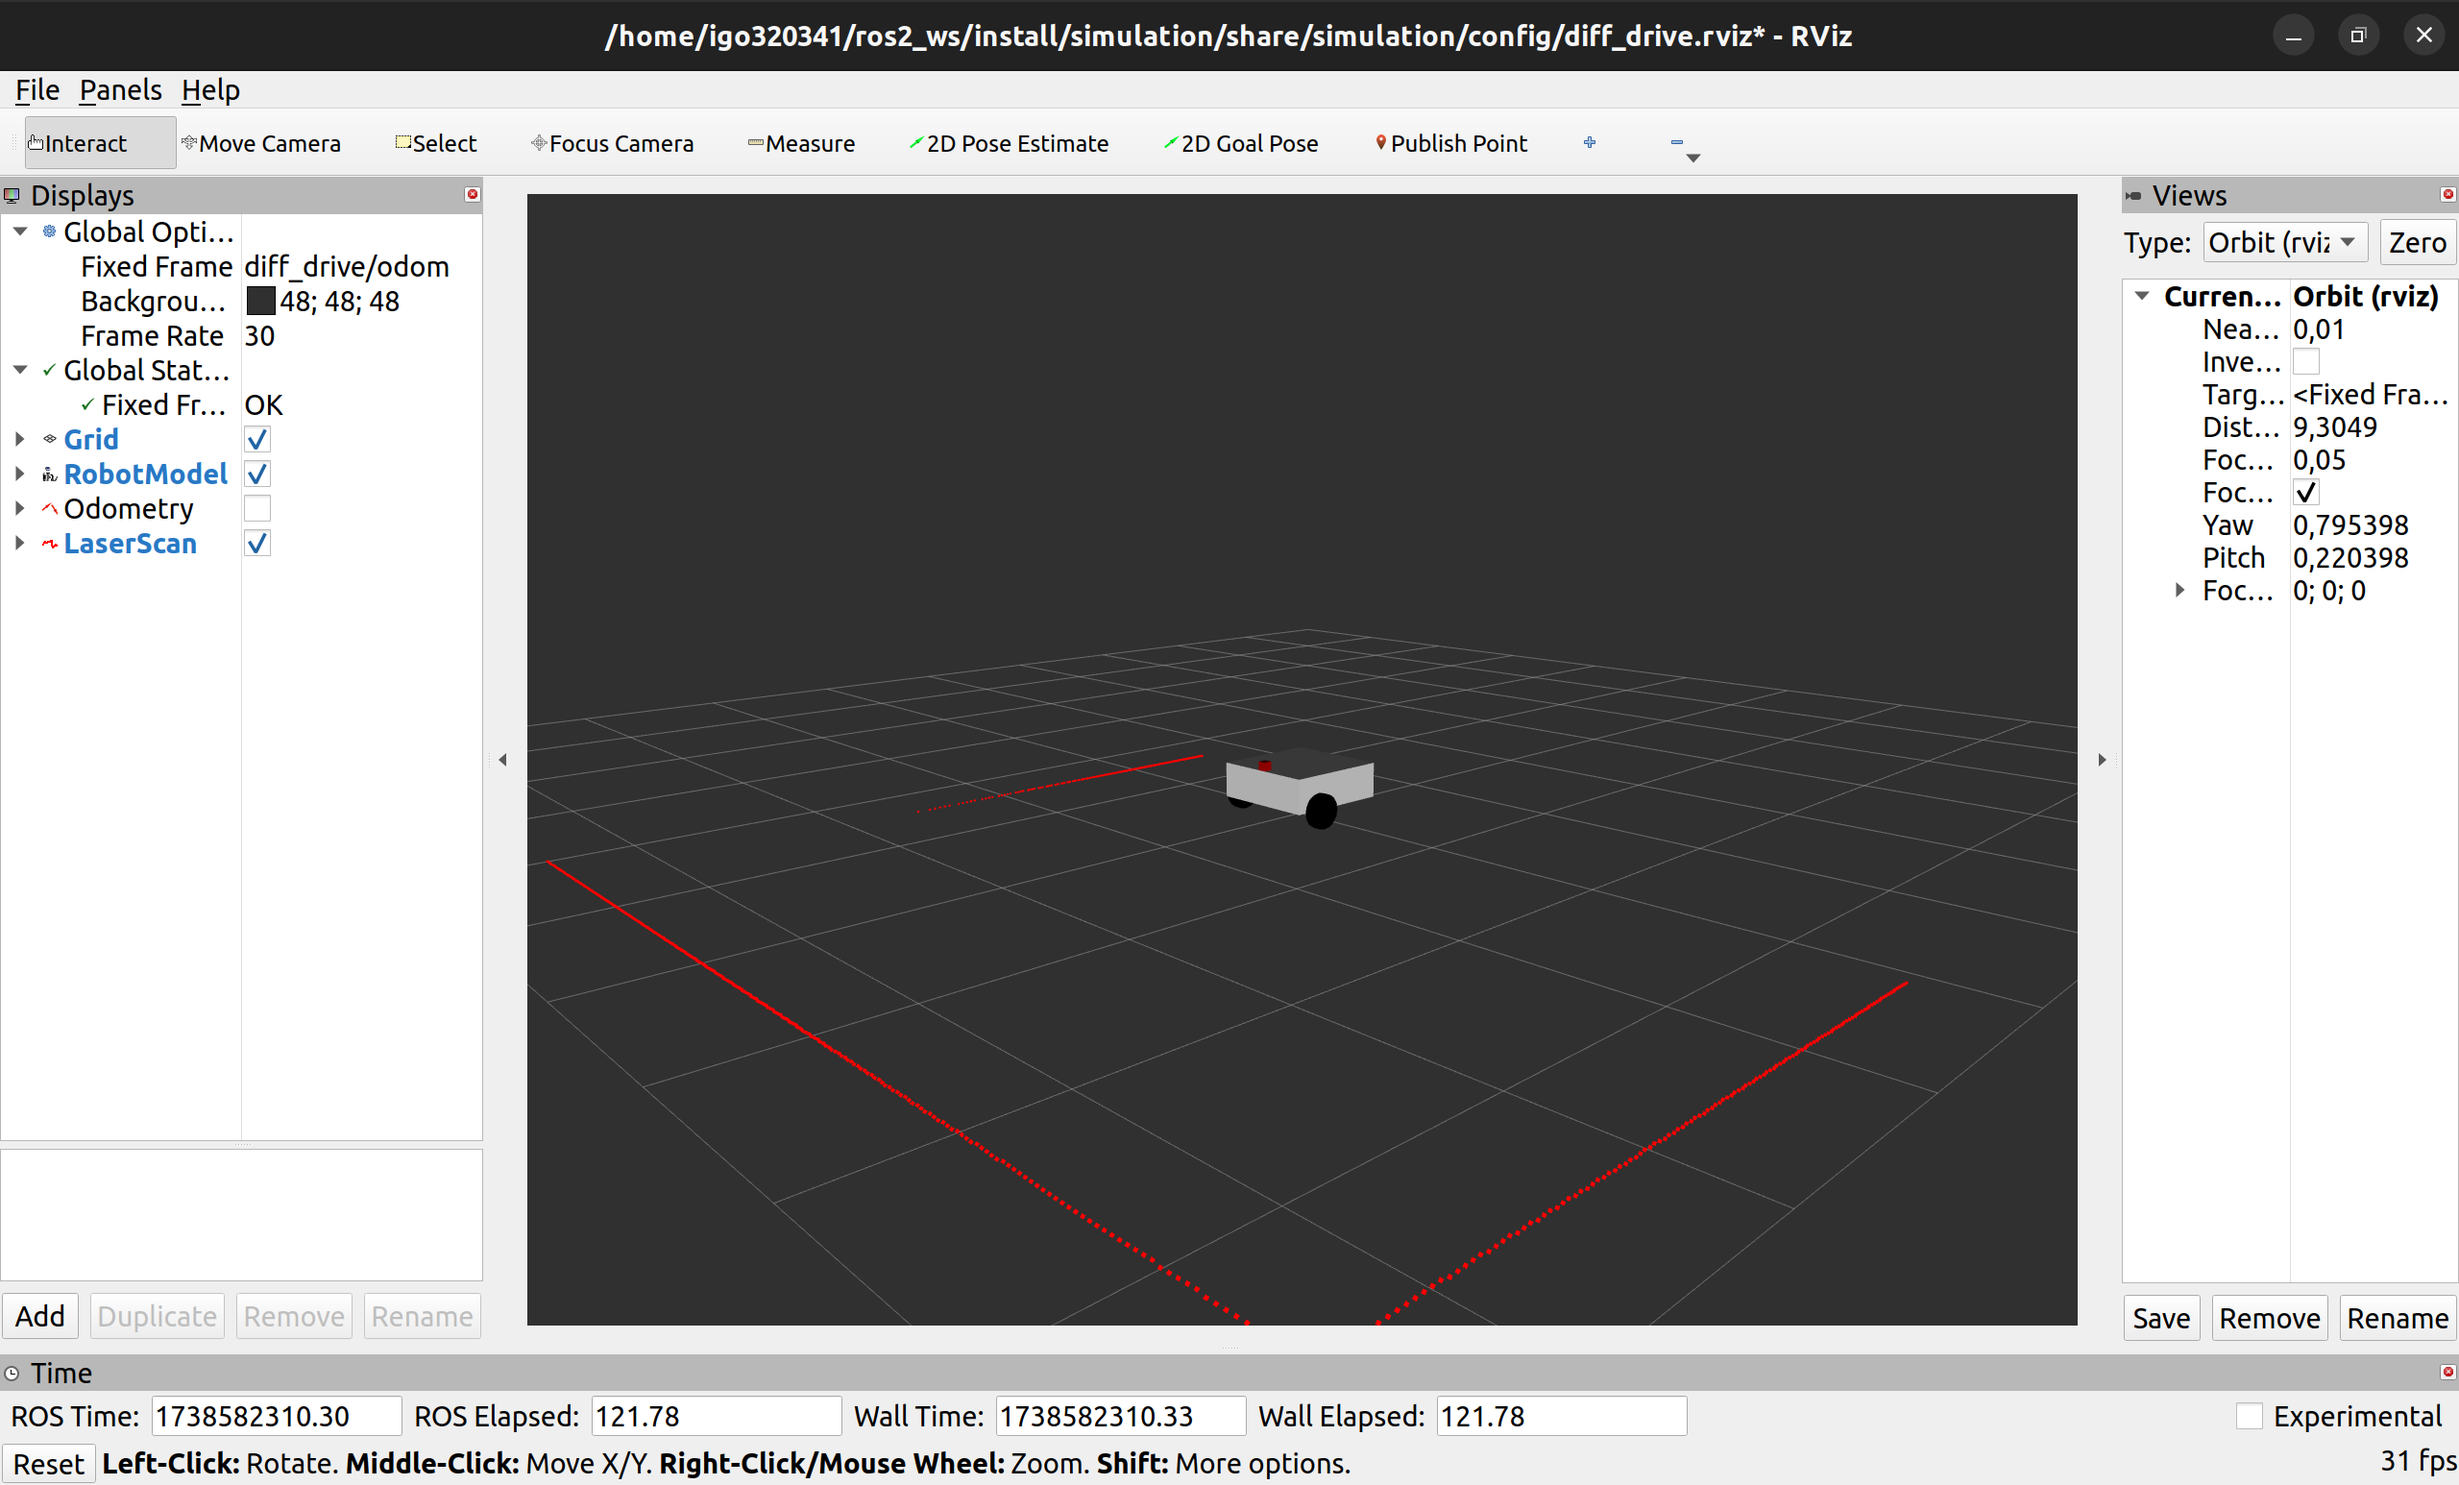
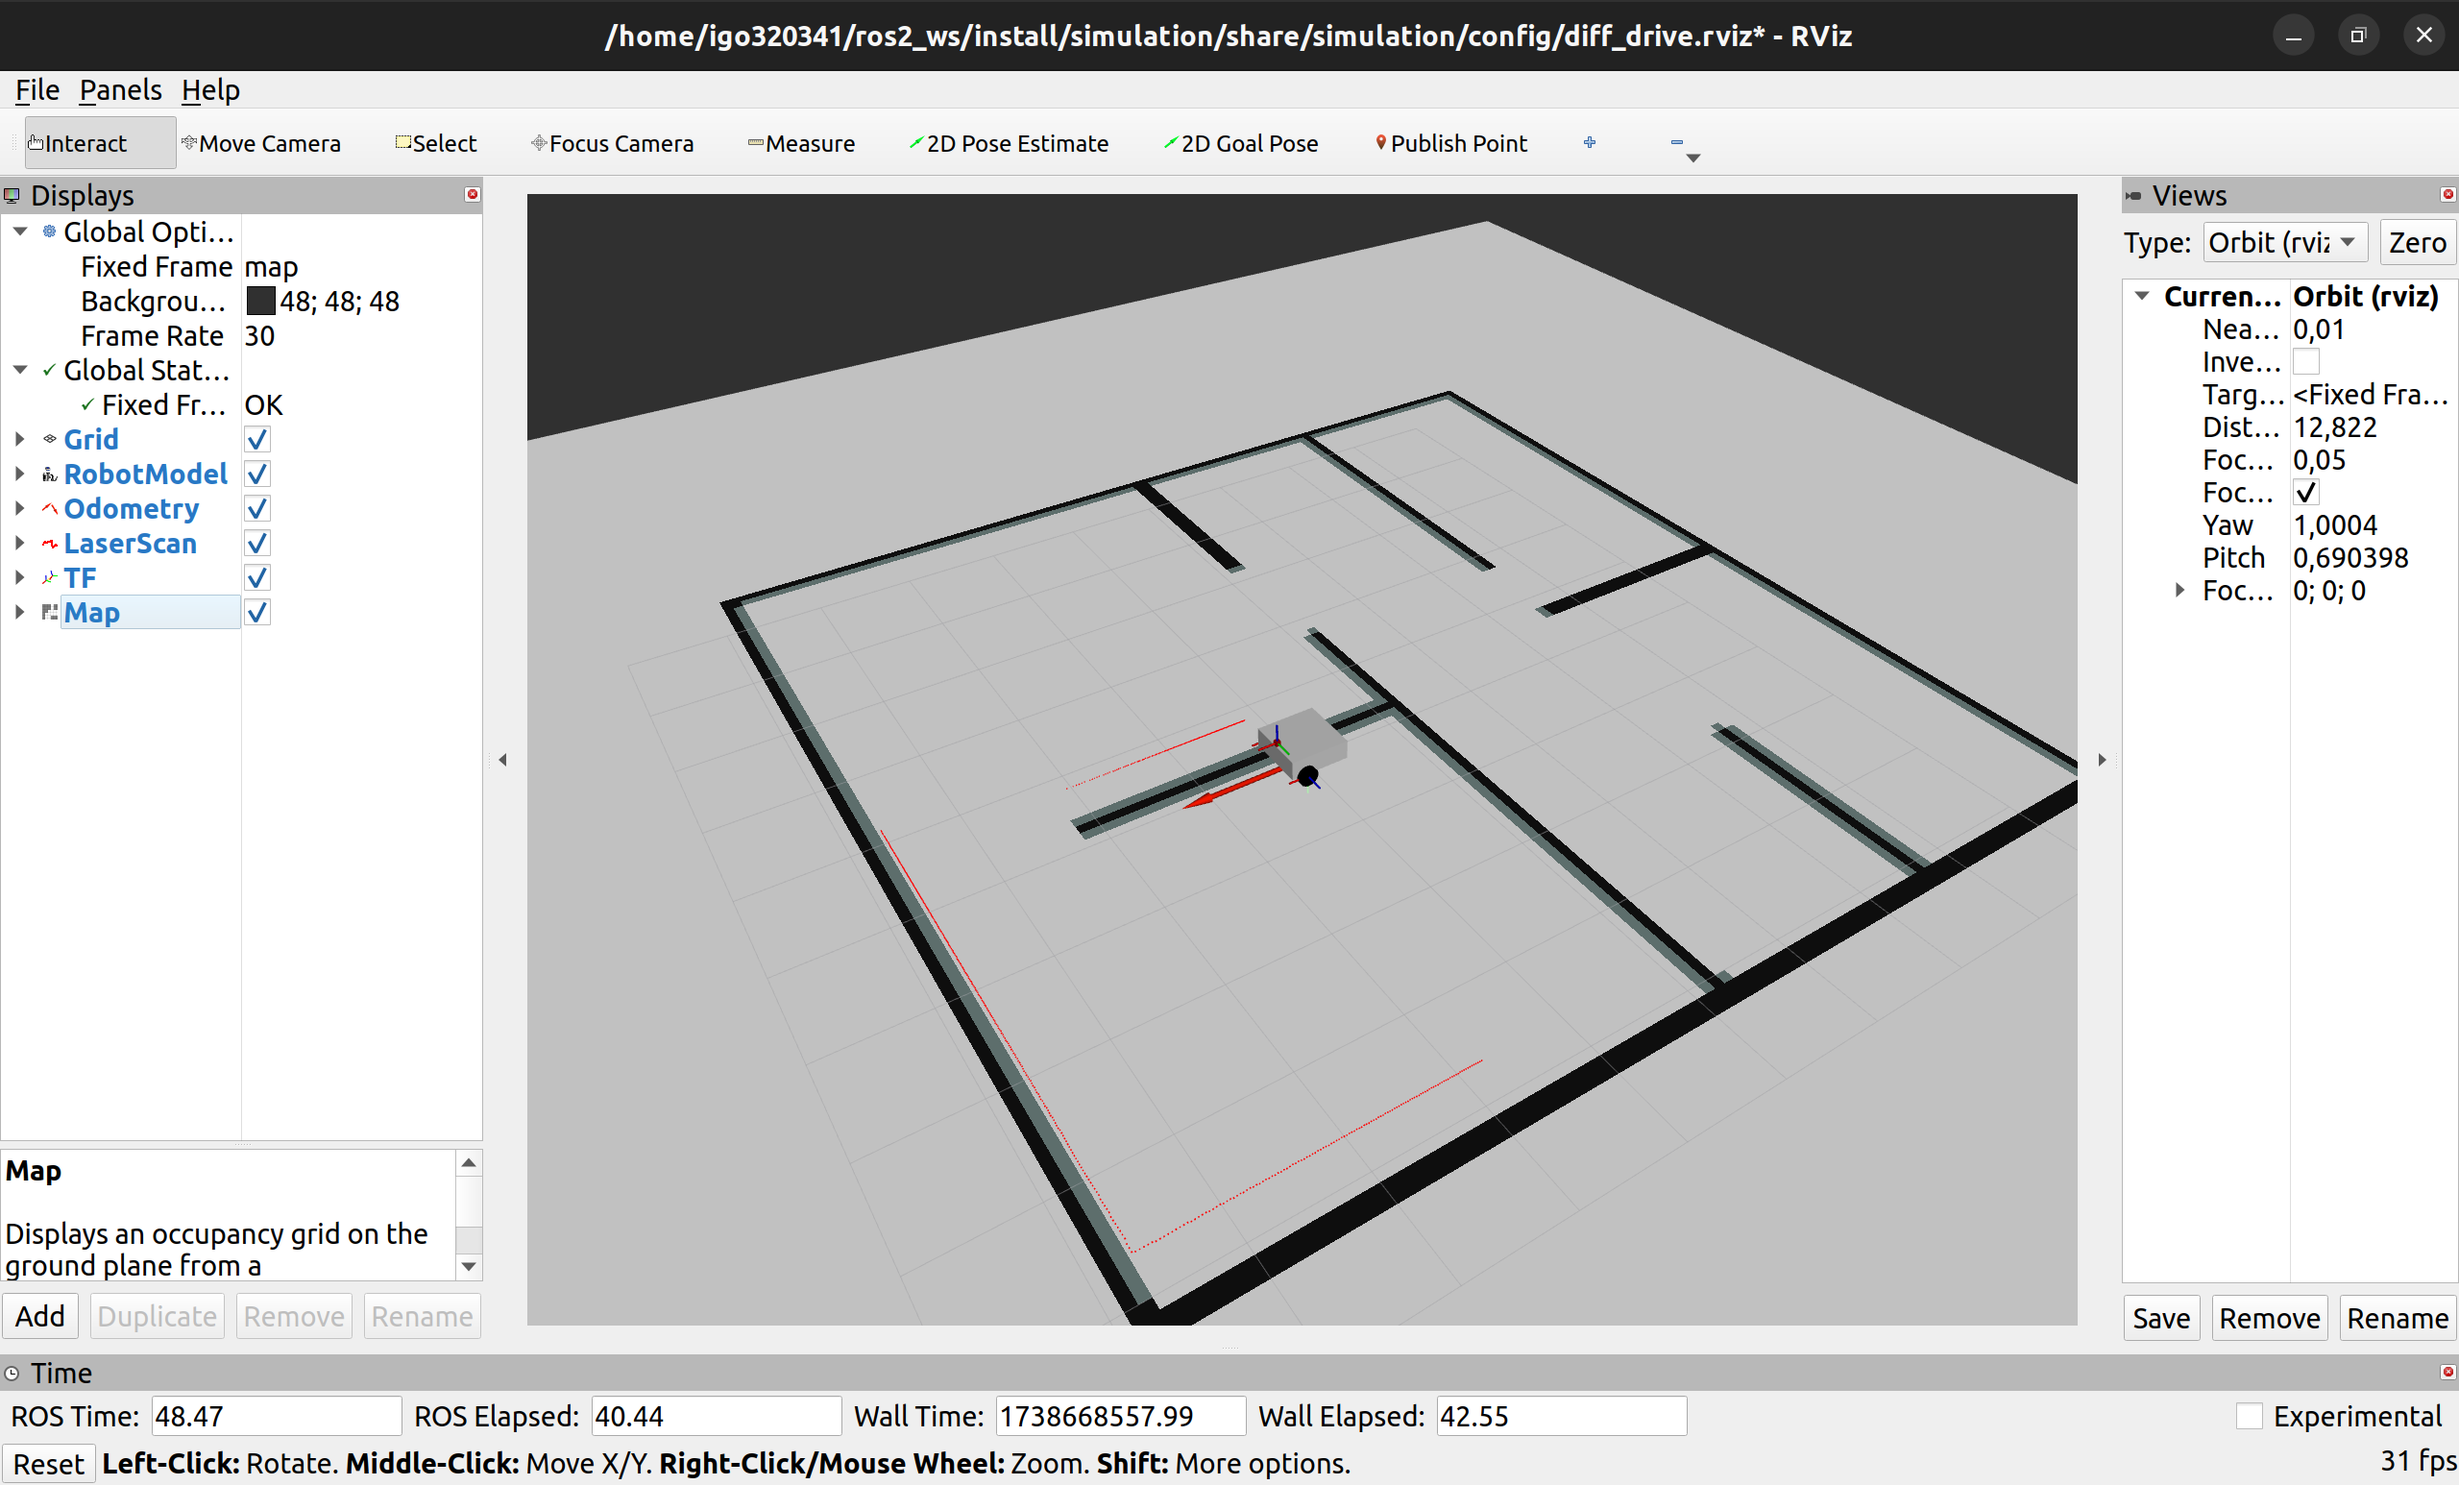
launch file update

diff --git a/launch/simulation.launch.py b/launch/simulation.launch.py
@@ -44,6 +44,7 @@ def generate_launch_description():
     rviz = Node(
        package='rviz2',
        executable='rviz2',
+       parameters=[{'use_sim_time': True}],
        arguments=['-d', os.path.join(pkg_simulation, 'config', 'diff_drive.rviz')],
        condition=IfCondition(LaunchConfiguration('rviz'))
     )
@@ -71,24 +72,36 @@ def generate_launch_description():
         name='map_server',
         output='screen',
         parameters=[{'yaml_filename': map_file, 
-                     'topic_name': 'map', 
+                     'topic_name': 'map',
+                     'use_sim_time': True, 
                      'frame_id': 'map'}]
     )
     map_server_lifecycle = Node(
-        package="nav2_lifecycle_manager",
-        executable="lifecycle_manager",
-        name="lifecycle_manager_map",
-        output="screen",
+        package='nav2_lifecycle_manager',
+        executable='lifecycle_manager',
+        name='lifecycle_manager_map',
+        output='screen',
         parameters=[{
-            "autostart": True,
-            "node_names": ["map_server"]
+            'autostart': True,
+            'use_sim_time': True,
+            'node_names': ['map_server']
         }]
+    )
+
+    pf_localization = Node(
+        package='pf_localization',
+        executable='pf_localization',
+        parameters=[{'use_sim_time': True}],
+        output='screen'
     )
 
     return LaunchDescription([
         gz_sim,
-        DeclareLaunchArgument('rviz', default_value='true',
-                              description='Open RViz.'),
+        DeclareLaunchArgument(
+            'rviz', 
+            default_value='true',
+            description='Open RViz'
+        ),
         DeclareLaunchArgument(
             'urdf_model',
             default_value=xacro_file,
@@ -99,5 +112,6 @@ def generate_launch_description():
         robot_state_publisher,
         map_server,
         map_server_lifecycle,
-        rviz
+        rviz,
+        pf_localization
     ])

diff --git a/README.md b/README.md
@@ -2,6 +2,8 @@
 
 Make sure you have `nav2` installed
 
+This package uses my localization package [pf_localization](https://github.com/igo320345/pf_localization). You can replace it with another packages(e.g. nav2_amcl). But make sure you have `map` -> `diff_drive/odom` transform.
+
 **This package was tested in combination with ROS Humble and Gazebo Fortress**
 
 ```
